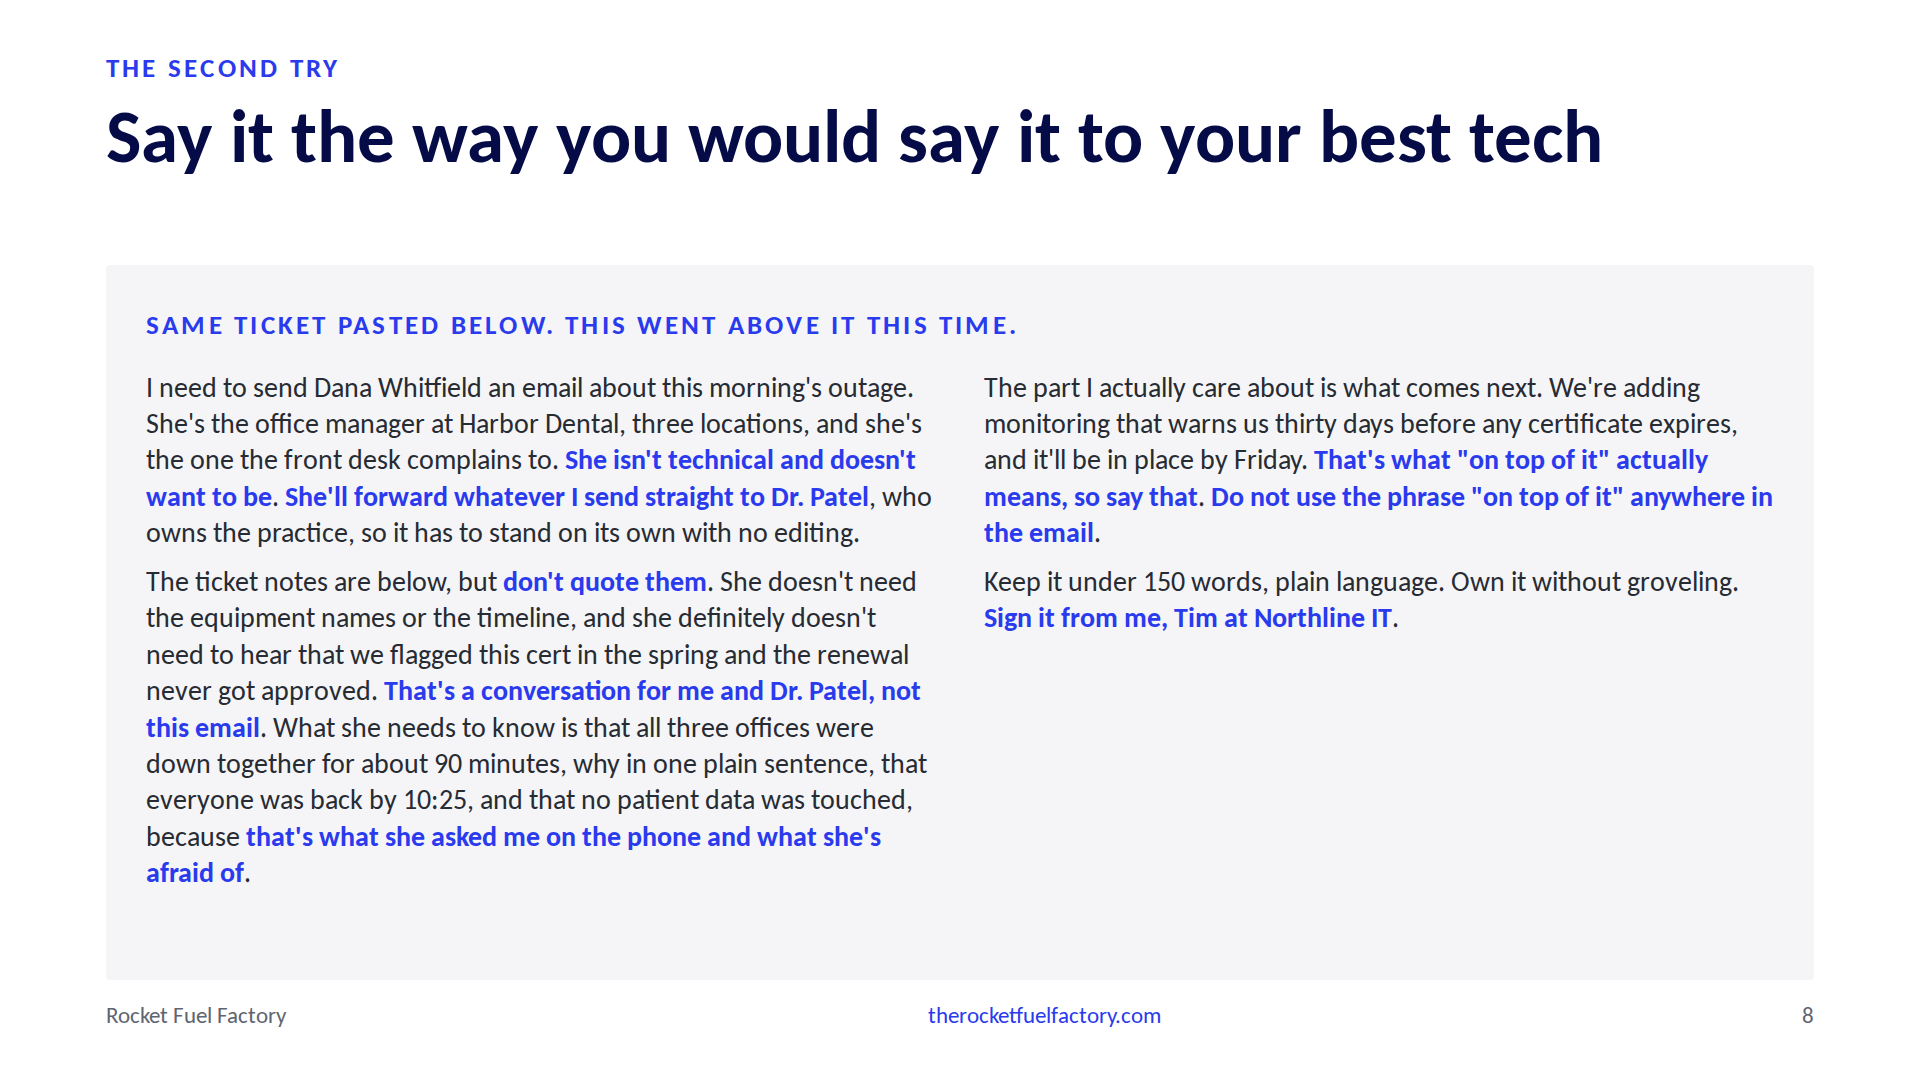
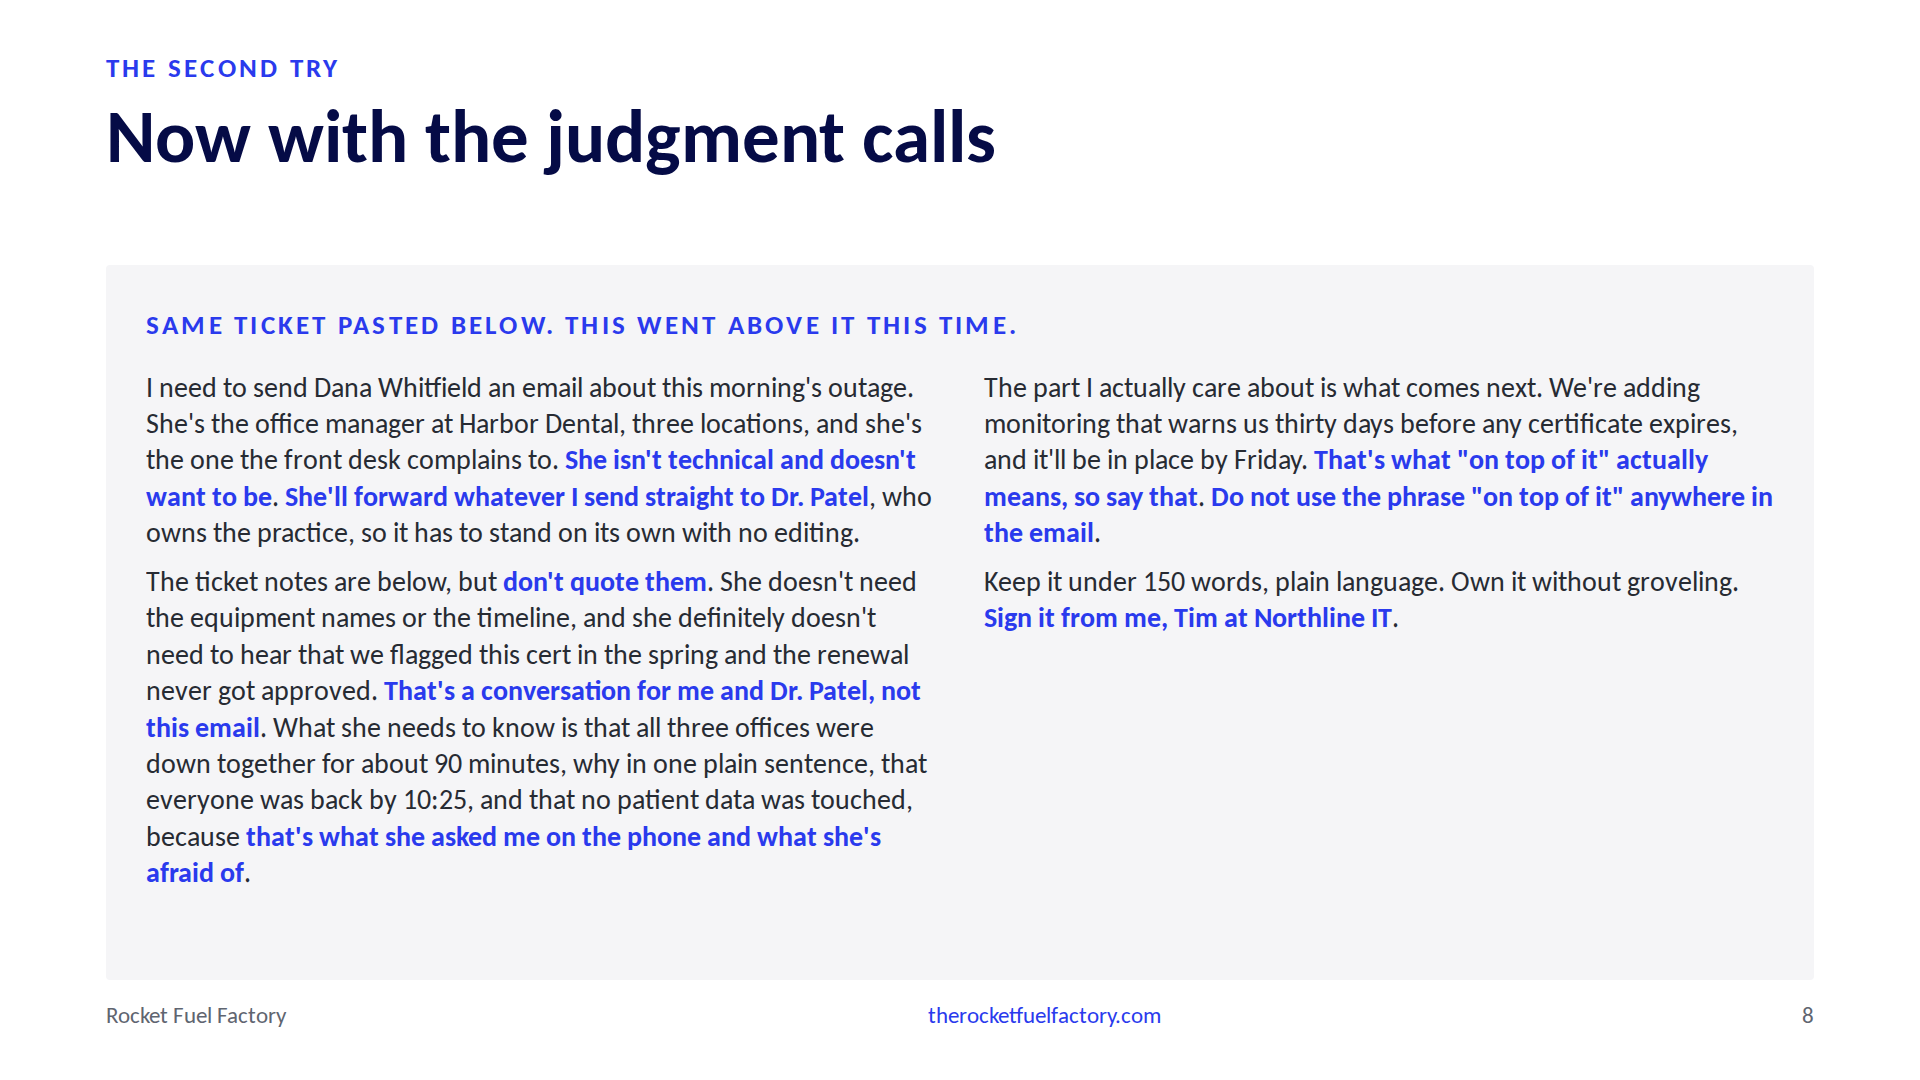
Slide 8 title: Now with the judgment calls

Changed region(s): [[0.0625, 0.0917, 0.8438, 0.1833]]

diff --git a/src/data/notes.js b/src/data/notes.js
@@ -10,7 +10,7 @@ export const notes = {
   'the-demo-never-had-a-client': 'Target 3:00. Twenty seconds. No vendor names. Every AI keynote is one sentence and magic, and it works because the presenter has no stake in which game he gets. Then you go home and ask for a client email, where every detail is the job. The demo taught you to abdicate. The demo never had a client.',
   'demo-weak': 'Target 3:40. The mirror. This is what everyone in the room actually does: one line, paste the ticket. Read the line. Point at the ticket: it has everything a tech needs. Full waiting room, FGT-60F, Phase 1, DigiCert, and the aside that we flagged this cert in Q2 and nobody approved the renewal. Every fact. Click.',
   'demo-weak-output': 'Target 4:30. Whole thing, two columns, so they can see how long it is. Read it as Dana. Ticket number in the subject line. Bold section headers like an incident report. Bottom right: Your Company Name, it did not know who was speaking. Then the blue sentence. Read it aloud: this certificate had actually been flagged for renewal in our Q2 review, and we are correcting the gap that let it lapse. That is the one line in the ticket you would never put in front of a client, and it is now in an email Dana forwards to the practice owner. When I reran this, it did that two times out of three. The third time it hid it. You did not get a vote either way. Line to land: you pasted the ticket, it told your client what you never approved. Then: it did exactly what you wrote. So did your tech. This one was fast enough for you to notice.',
-  'demo-brief': 'Target 7:15. Now you know what to say. Same ticket pasted underneath; these are the words that went above it, the way you would say them to your best tech in the hallway. Point at what the machine asked for and you supplied: who Dana is and that she forwards it to Dr. Patel, do not quote the ticket, the Q2 conversation is for me and the owner, no patient data because that is what she asked on the phone, and on top of it means monitoring by Friday. This is delegating.',
+  'demo-brief': 'Target 7:15. Now you know what to say. Same ticket pasted underneath; these are the words that went above it, in plain prose. Point at what the machine asked for and you supplied: who Dana is and that she forwards it to Dr. Patel, do not quote the ticket, the Q2 conversation is for me and the owner, no patient data because that is what she asked on the phone, and on top of it means monitoring by Friday. This is delegating.',
   'demo-strong': 'Target 8:30. Loud punchline: same tool, same task, the only thing that changed was how you asked. Under 150 words, Dr. Patel named, forwardable. Then the bridge to Aharon: same habit, bigger scale.',
   'demo-ask': 'Target 5:30. Bridge, said before the click: this is where most people get frustrated and stop. Do not stop, and do not just ask it to try again. Ask it how you should have asked. Show the answer. Five things it wanted up front: who is reading, what on top of it was supposed to mean, whether the Q2 detail was a feature or a liability, tone, any business ask. Then read the punchline off the slide, slowly, and do not editorialize: I put it in, that is a 50/50 guess I should not have made silently. It knows. It just described abdication better than I did. Try this tonight on the last answer that disappointed you.',
   'aharons-law': 'Target 9:30. SLOW. Say the law, credit Aharon, two full seconds of silence. Same habit, bigger scale.',

diff --git a/src/components/slides/008-DemoBrief.jsx b/src/components/slides/008-DemoBrief.jsx
@@ -7,7 +7,7 @@ export default function DemoBrief({ slideNumber }) {
   return (
     <PromptOutputSlide
       eyebrow="The second try"
-      title="Say it the way you would say it to your best tech"
+      title="Now with the judgment calls"
       accent="blue"
       slideNumber={slideNumber}
       only="prompt"

diff --git a/docs/OUTLINE.md b/docs/OUTLINE.md
@@ -41,7 +41,7 @@ Closing line: If you can't write the rule, you can't hire your way out of it eit
 5. Abdicating to a machine (full-width ask). What everyone actually does: one line ("Write an email to the client about this. Apologize and let them know we're on top of it.") above a pasted PSA ticket. The ticket has everything a tech needs: full waiting room, FGT-60F, Phase 1, DigiCert, and the aside that this cert was flagged in the Q2 review and nobody approved the renewal. Every fact.
 6. What the client would have received (full-width output, whole, two columns). Ticket number in the subject. Incident-report headers. Placeholder sign-off. And in blue, the machine's own sentence to Dana: this certificate had actually been flagged for renewal in our Q2 review, and we're correcting the gap that let it lapse. The one line in the ticket you would never put in front of a client, now in an email she forwards to the practice owner. Reran it three times: disclosed twice, hidden once, you did not get a vote either way. Line: you pasted the ticket, it told your client what you never approved. Then: it did exactly what you wrote. So did your tech. This one was fast enough for you to notice.
 7. Ask it how to ask better (prompt/output). Bridge, said aloud first: this is where most people get frustrated and stop. Do not stop, and do not just ask it to try again. Ask it how you should have asked. Its five items: who is actually reading it, what on top of it was supposed to mean, whether the Q2 detail was a feature or a liability, tone register, any business ask riding along. Punchline, its own words about the leak: I put it in. That's a 50/50 guess I shouldn't have made silently. Quiet. Try this tonight.
-8. Say it the way you would say it to your best tech (full brief). Earned by the previous slide. Same ticket pasted underneath; these are the words that went above it, in prose: who Dana is and that she forwards to Dr. Patel; do not quote the ticket; the Q2 conversation is for me and the owner, not this email; no patient data touched because that is what she asked on the phone; what on top of it actually means, monitoring by Friday. This is delegating.
+8. Now with the judgment calls (full brief). Earned by the previous slide. Same ticket pasted underneath; these are the words that went above it, in prose: who Dana is and that she forwards to Dr. Patel; do not quote the ticket; the Q2 conversation is for me and the owner, not this email; no patient data touched because that is what she asked on the phone; what on top of it actually means, monitoring by Friday. This is delegating.
 9. Forwardable without edits (full output). Under 150 words, Dr. Patel named. Loud: same tool, same task, the only thing that changed was how you asked.
 
 10. Aharon's first law (pull statement). SLOW. You can't automate a process that doesn't exist. Aharon Chernin, Rewst. Same habit, bigger scale.
